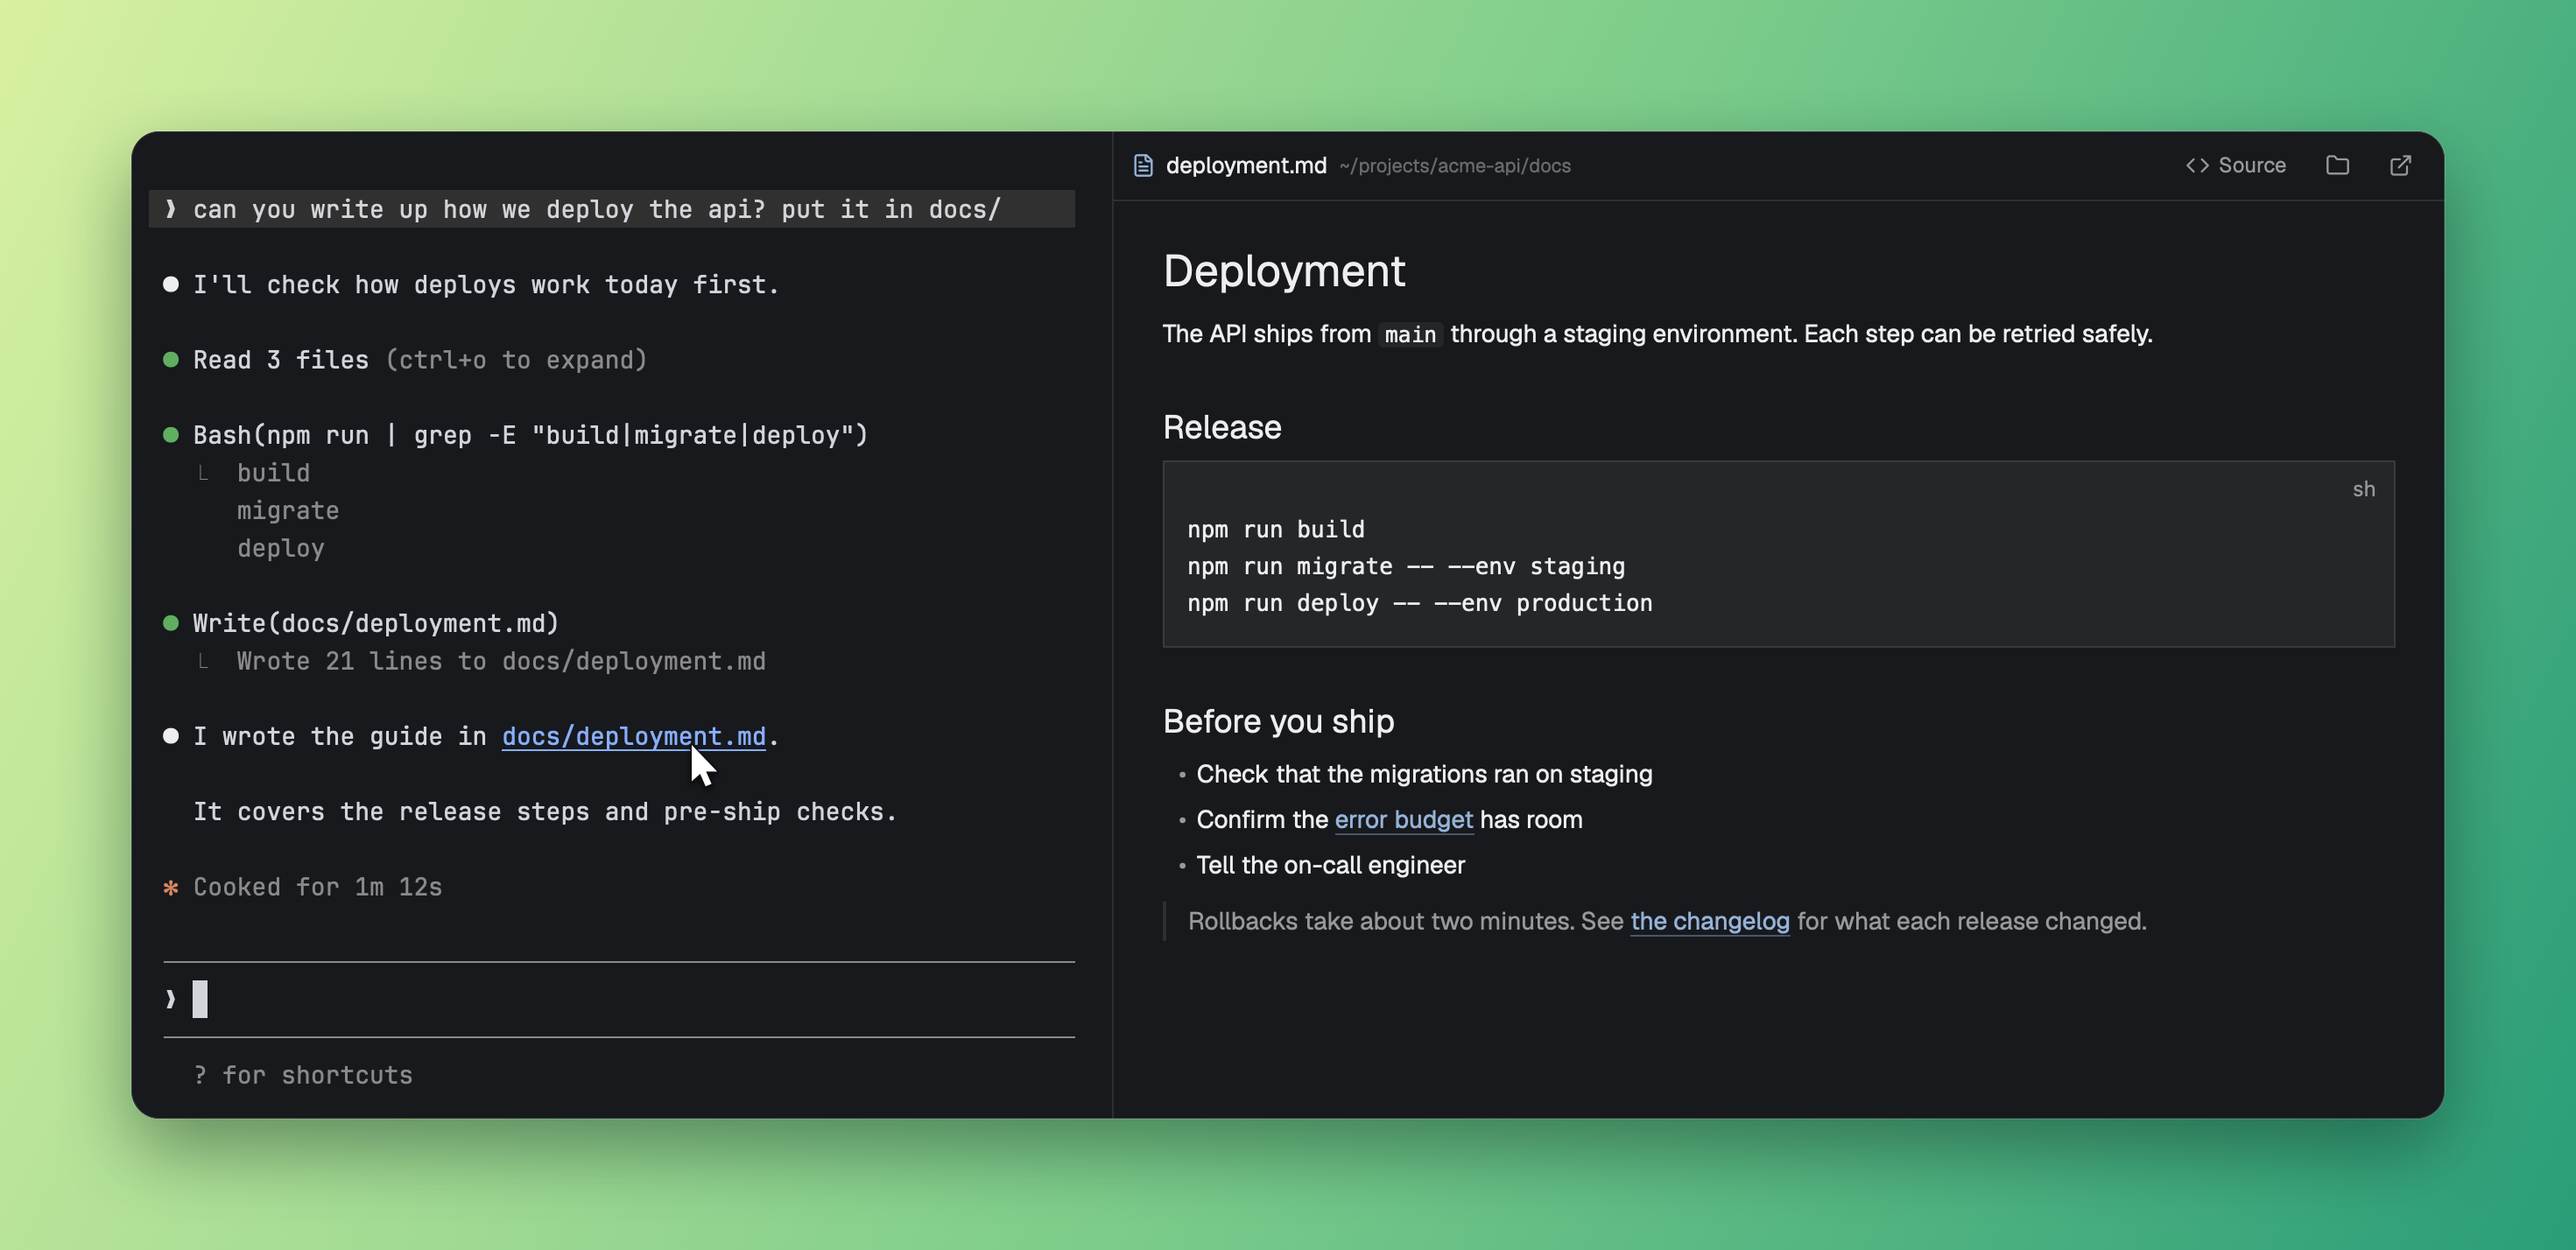
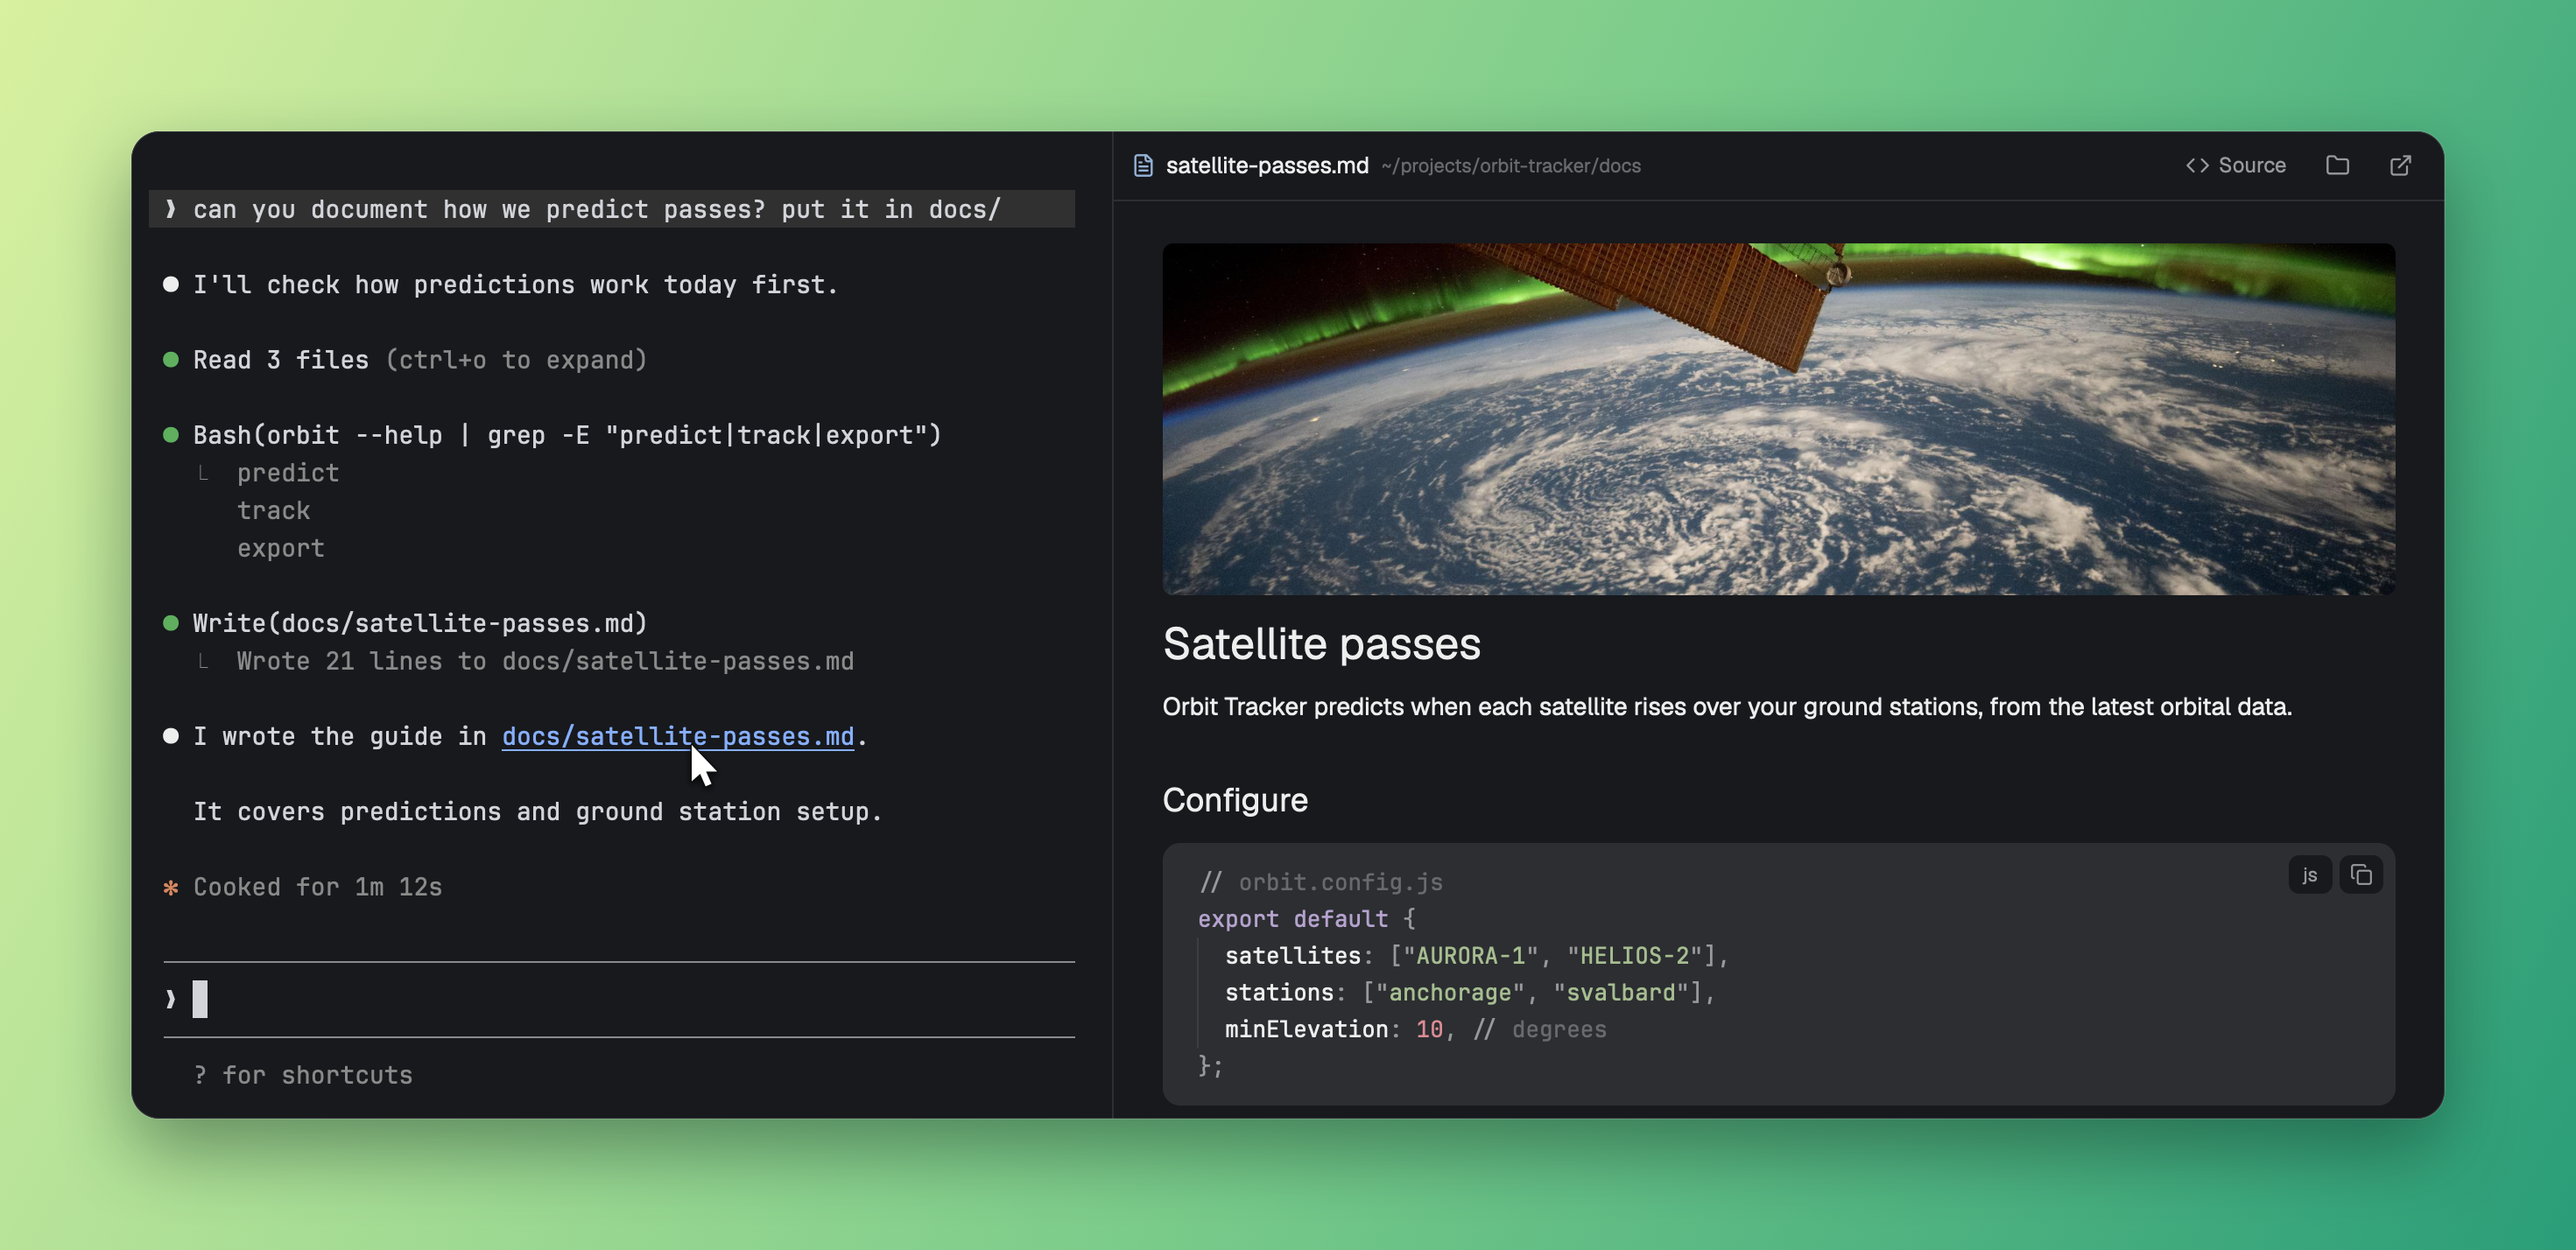
New preview: an invented satellite project with an image and a code block

diff --git a/README.md b/README.md
@@ -3,7 +3,7 @@
 When your coding agent mentions a Markdown file, click the path in the conversation and read it
 rendered, right beside the conversation. No switching to another app or hunting for it in Finder.
 
-![A conversation with a coding agent on the left, and the Markdown file it mentioned rendered on the right](preview.png)
+![A conversation with a coding agent on the left, and the Markdown file it mentioned on the right, with an image and a highlighted code block](preview.png)
 
 ## What you get
 
@@ -64,3 +64,5 @@ In `~/.config/herdr-app/keys.json`, inside `"global"`. Use one of these, or any 
 ## License
 
 [MIT](LICENSE)
+
+Preview photo: NASA, [iss072e820937](https://images.nasa.gov/details/iss072e820937). NASA doesn't endorse this project.
